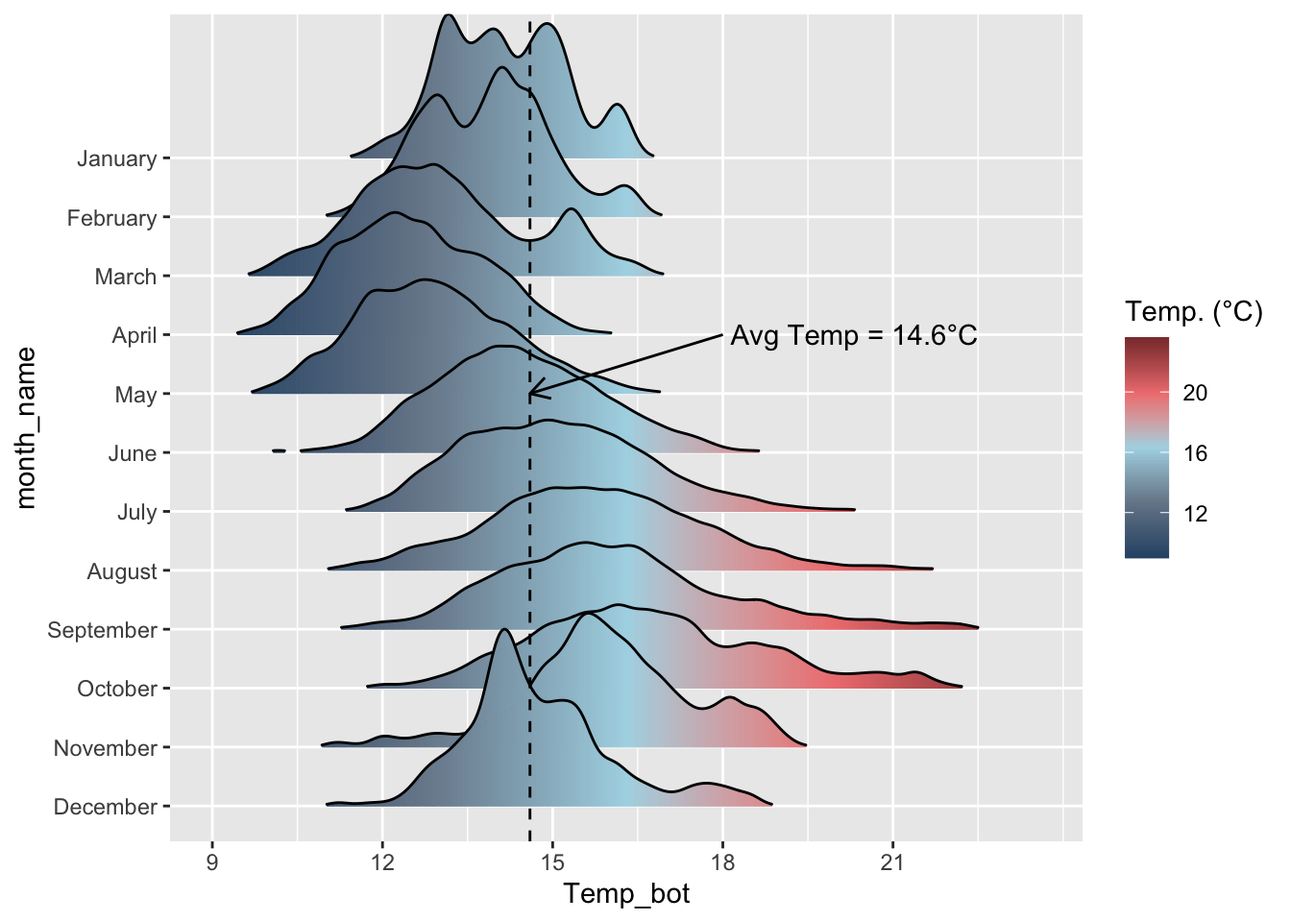
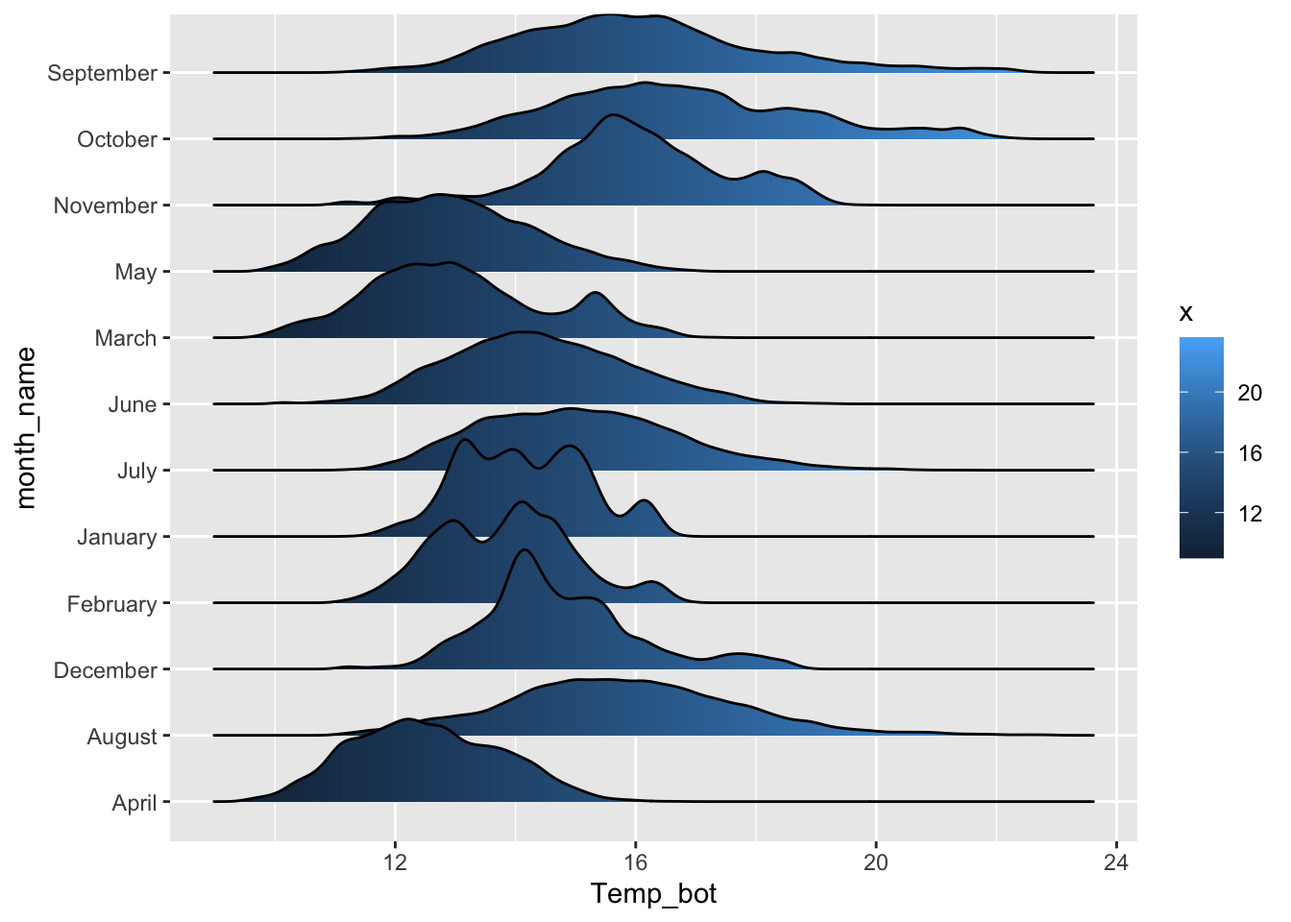
updated bullet point list for improving clarity; added sneak peak tabs at the start of doc

diff --git a/index.html b/index.html
@@ -163,14 +163,32 @@ code span.wa { color: #60a0b0; font-weight: bold; font-style: italic; } /* Warni
 <p><code>{ggplot2}</code> has, in many ways, become the de facto tool for data visualization in R. And with the <em>many</em> extension packages available, there’s hardly a limit to what you can create. Building effective and visually-pleasing data visualizations is a skill that gets easier with practice, and following a somewhat structured workflow – at least at the start – can help you get there faster. This workshop covers one approach for doing so, though you’ll find what works best for you with time.</p>
 </div>
 </div>
-<p>Below, you’ll find three different examples, beginning with an assessment of the raw data and ending with a completed visualization.</p>
+<p>Below, you’ll find three different examples, beginning with an assessment of the raw data and ending with a completed visualization. Here’s a sneak peak of what we’ll be creating:</p>
+<div class="panel-tabset">
+<ul class="nav nav-tabs" role="tablist"><li class="nav-item" role="presentation"><a class="nav-link active" id="tabset-1-1-tab" data-bs-toggle="tab" data-bs-target="#tabset-1-1" role="tab" aria-controls="tabset-1-1" aria-selected="true" href=""><strong><svg aria-label="Temperature quarter" role="img" viewbox="0 0 320 512" style="height:1em;width:0.62em;vertical-align:-0.125em;margin-left:auto;margin-right:auto;font-size:inherit;fill:#5A5A5A;overflow:visible;position:relative;"><title>Temperature quarter</title><path d="M160 64c-26.5 0-48 21.5-48 48V276.5c0 17.3-7.1 31.9-15.3 42.5C86.2 332.6 80 349.5 80 368c0 44.2 35.8 80 80 80s80-35.8 80-80c0-18.5-6.2-35.4-16.7-48.9c-8.2-10.6-15.3-25.2-15.3-42.5V112c0-26.5-21.5-48-48-48zM48 112C48 50.2 98.1 0 160 0s112 50.1 112 112V276.5c0 .1 .1 .3 .2 .6c.2 .6 .8 1.6 1.7 2.8c18.9 24.4 30.1 55 30.1 88.1c0 79.5-64.5 144-144 144S16 447.5 16 368c0-33.2 11.2-63.8 30.1-88.1c.9-1.2 1.5-2.2 1.7-2.8c.1-.3 .2-.5 .2-.6V112zM208 368c0 26.5-21.5 48-48 48s-48-21.5-48-48c0-20.9 13.4-38.7 32-45.3V272c0-8.8 7.2-16 16-16s16 7.2 16 16v50.7c18.6 6.6 32 24.4 32 45.3z"></path></svg> Example 1:</strong> Ocean Temperatures</a></li><li class="nav-item" role="presentation"><a class="nav-link" id="tabset-1-2-tab" data-bs-toggle="tab" data-bs-target="#tabset-1-2" role="tab" aria-controls="tabset-1-2" aria-selected="false" href=""><strong>Example 2:</strong></a></li><li class="nav-item" role="presentation"><a class="nav-link" id="tabset-1-3-tab" data-bs-toggle="tab" data-bs-target="#tabset-1-3" role="tab" aria-controls="tabset-1-3" aria-selected="false" href=""><strong>Example 3:</strong></a></li></ul>
+<div class="tab-content">
+<div id="tabset-1-1" class="tab-pane active" role="tabpanel" aria-labelledby="tabset-1-1-tab">
+<div class="cell">
+<div class="cell-output-display">
+<p><img src="index_files/figure-html/unnamed-chunk-1-1.png" class="img-fluid" width="672"></p>
+</div>
+</div>
+</div>
+<div id="tabset-1-2" class="tab-pane" role="tabpanel" aria-labelledby="tabset-1-2-tab">
+
+</div>
+<div id="tabset-1-3" class="tab-pane" role="tabpanel" aria-labelledby="tabset-1-3-tab">
+
+</div>
+</div>
+</div>
 <section id="step-1.-what-data-types" class="level2">
 <h2 class="anchored" data-anchor-id="step-1.-what-data-types"><svg aria-label="table" role="img" viewbox="0 0 512 512" style="height:1em;width:1em;vertical-align:-0.125em;margin-left:auto;margin-right:auto;font-size:inherit;fill:#5A5A5A;overflow:visible;position:relative;"><title>table</title><path d="M64 256V160H224v96H64zm0 64H224v96H64V320zm224 96V320H448v96H288zM448 256H288V160H448v96zM64 32C28.7 32 0 60.7 0 96V416c0 35.3 28.7 64 64 64H448c35.3 0 64-28.7 64-64V96c0-35.3-28.7-64-64-64H64z"></path></svg> Step 1. What data type(s)?</h2>
 <p>In order to determine the most appropriate and effective chart type, you first need to determine what type(s) of data you’re working with.</p>
 <div class="panel-tabset">
-<ul class="nav nav-tabs" role="tablist"><li class="nav-item" role="presentation"><a class="nav-link active" id="tabset-1-1-tab" data-bs-toggle="tab" data-bs-target="#tabset-1-1" role="tab" aria-controls="tabset-1-1" aria-selected="true" href=""><strong><svg aria-label="Temperature quarter" role="img" viewbox="0 0 320 512" style="height:1em;width:0.62em;vertical-align:-0.125em;margin-left:auto;margin-right:auto;font-size:inherit;fill:#5A5A5A;overflow:visible;position:relative;"><title>Temperature quarter</title><path d="M160 64c-26.5 0-48 21.5-48 48V276.5c0 17.3-7.1 31.9-15.3 42.5C86.2 332.6 80 349.5 80 368c0 44.2 35.8 80 80 80s80-35.8 80-80c0-18.5-6.2-35.4-16.7-48.9c-8.2-10.6-15.3-25.2-15.3-42.5V112c0-26.5-21.5-48-48-48zM48 112C48 50.2 98.1 0 160 0s112 50.1 112 112V276.5c0 .1 .1 .3 .2 .6c.2 .6 .8 1.6 1.7 2.8c18.9 24.4 30.1 55 30.1 88.1c0 79.5-64.5 144-144 144S16 447.5 16 368c0-33.2 11.2-63.8 30.1-88.1c.9-1.2 1.5-2.2 1.7-2.8c.1-.3 .2-.5 .2-.6V112zM208 368c0 26.5-21.5 48-48 48s-48-21.5-48-48c0-20.9 13.4-38.7 32-45.3V272c0-8.8 7.2-16 16-16s16 7.2 16 16v50.7c18.6 6.6 32 24.4 32 45.3z"></path></svg> Example 1:</strong> Ocean Temperatures</a></li><li class="nav-item" role="presentation"><a class="nav-link" id="tabset-1-2-tab" data-bs-toggle="tab" data-bs-target="#tabset-1-2" role="tab" aria-controls="tabset-1-2" aria-selected="false" href=""><strong>Example 2:</strong> tbd</a></li><li class="nav-item" role="presentation"><a class="nav-link" id="tabset-1-3-tab" data-bs-toggle="tab" data-bs-target="#tabset-1-3" role="tab" aria-controls="tabset-1-3" aria-selected="false" href=""><strong>Example 3:</strong> tbd</a></li></ul>
+<ul class="nav nav-tabs" role="tablist"><li class="nav-item" role="presentation"><a class="nav-link active" id="tabset-2-1-tab" data-bs-toggle="tab" data-bs-target="#tabset-2-1" role="tab" aria-controls="tabset-2-1" aria-selected="true" href=""><strong><svg aria-label="Temperature quarter" role="img" viewbox="0 0 320 512" style="height:1em;width:0.62em;vertical-align:-0.125em;margin-left:auto;margin-right:auto;font-size:inherit;fill:#5A5A5A;overflow:visible;position:relative;"><title>Temperature quarter</title><path d="M160 64c-26.5 0-48 21.5-48 48V276.5c0 17.3-7.1 31.9-15.3 42.5C86.2 332.6 80 349.5 80 368c0 44.2 35.8 80 80 80s80-35.8 80-80c0-18.5-6.2-35.4-16.7-48.9c-8.2-10.6-15.3-25.2-15.3-42.5V112c0-26.5-21.5-48-48-48zM48 112C48 50.2 98.1 0 160 0s112 50.1 112 112V276.5c0 .1 .1 .3 .2 .6c.2 .6 .8 1.6 1.7 2.8c18.9 24.4 30.1 55 30.1 88.1c0 79.5-64.5 144-144 144S16 447.5 16 368c0-33.2 11.2-63.8 30.1-88.1c.9-1.2 1.5-2.2 1.7-2.8c.1-.3 .2-.5 .2-.6V112zM208 368c0 26.5-21.5 48-48 48s-48-21.5-48-48c0-20.9 13.4-38.7 32-45.3V272c0-8.8 7.2-16 16-16s16 7.2 16 16v50.7c18.6 6.6 32 24.4 32 45.3z"></path></svg> Example 1:</strong> Ocean Temperatures</a></li><li class="nav-item" role="presentation"><a class="nav-link" id="tabset-2-2-tab" data-bs-toggle="tab" data-bs-target="#tabset-2-2" role="tab" aria-controls="tabset-2-2" aria-selected="false" href=""><strong>Example 2:</strong> tbd</a></li><li class="nav-item" role="presentation"><a class="nav-link" id="tabset-2-3-tab" data-bs-toggle="tab" data-bs-target="#tabset-2-3" role="tab" aria-controls="tabset-2-3" aria-selected="false" href=""><strong>Example 3:</strong> tbd</a></li></ul>
 <div class="tab-content">
-<div id="tabset-1-1" class="tab-pane active" role="tabpanel" aria-labelledby="tabset-1-1-tab">
+<div id="tabset-2-1" class="tab-pane active" role="tabpanel" aria-labelledby="tabset-2-1-tab">
 <p>Let’s say we’re interested in visualizing <strong>temporal variation in bottom temperature</strong> at Mohawk Reef (Santa Barbara, CA), a near-shore rocky reef and one of the <a href="https://sbclter.msi.ucsb.edu/">Santa Barbara Coastal (SBC) LTER</a> research sites. To do so, we’ll use SBC LTER data, <a href="https://pasta.lternet.edu/package/eml/knb-lter-sbc/2007/16">SBC LTER: Ocean: Currents and Biogeochemistry: Moored CTD and ADCP data from Mohawk Outside Spar (MKO), ongoing since 2005</a>, available for download on the <a href="https://portal.edirepository.org/nis/home.jsp">EDI Data Portal</a>.</p>
 <div class="callout-important callout callout-style-default callout-captioned">
 <div class="callout-header d-flex align-content-center">
@@ -185,7 +203,7 @@ Warning: Large data file!
 <p><strong>Do not attempt to push raw data to GitHub</strong> – adding your <code>raw-data/</code> folder (or equivalent) to your <code>.gitignore</code> is highly recommmended. You may download the cleaned <code>mohawk_cleaned.rds</code> file <a href="https://github.com/UCSB-MEDS/data-viz-practice/blob/main/clean-data/mohawk_temps.rds">here</a>.</p>
 </div>
 </div>
-<p>The raw data file contains 87 variables and &gt;473,000 observations across 18 years (2005 - 2022) (data have been interpolated to a 20 min interval) – cleaning involves selecting only columns of interest, coercing variables to the appropriate data type, adding month abbreviations, and assessing missing data (find the <a href="https://github.com/UCSB-MEDS/data-viz-practice/blob/main/data-wrangling/ocean-temps.R">cleaning script here</a>).</p>
+<p>The raw data file contains 87 variables and &gt;473,000 observations across 18 years (2005 - 2022) (data have been interpolated to a 20 min interval) – cleaning involves selecting only variables of interest, coercing variables to the appropriate data type, adding month abbreviations, and assessing missing data (find the <a href="https://github.com/UCSB-MEDS/data-viz-practice/blob/main/data-wrangling/ocean-temps.R">cleaning script here</a>).</p>
 <p>Below are 10 randomly sampled rows from our cleaned data:</p>
 <div class="cell">
 <div class="sourceCode cell-code" id="cb1"><pre class="sourceCode r code-with-copy"><code class="sourceCode r"><span id="cb1-1"><a href="#cb1-1" aria-hidden="true" tabindex="-1"></a><span class="co">#..........................load packages.........................</span></span>
@@ -215,10 +233,10 @@ Warning: Large data file!
 </div>
 <p>We are working with both <strong>numeric data</strong> (bottom temperature, <code>Temp_bot</code>) and <strong>categorical data</strong> (months, <code>month</code>). Further we have several (well, <em>many</em>) observations per group (month).</p>
 </div>
-<div id="tabset-1-2" class="tab-pane" role="tabpanel" aria-labelledby="tabset-1-2-tab">
+<div id="tabset-2-2" class="tab-pane" role="tabpanel" aria-labelledby="tabset-2-2-tab">
 
 </div>
-<div id="tabset-1-3" class="tab-pane" role="tabpanel" aria-labelledby="tabset-1-3-tab">
+<div id="tabset-2-3" class="tab-pane" role="tabpanel" aria-labelledby="tabset-2-3-tab">
 
 </div>
 </div>
@@ -261,9 +279,9 @@ Click on a particular chart type in the <a href="https://www.data-to-viz.com/">F
 </div>
 </div>
 <div class="panel-tabset">
-<ul class="nav nav-tabs" role="tablist"><li class="nav-item" role="presentation"><a class="nav-link active" id="tabset-2-1-tab" data-bs-toggle="tab" data-bs-target="#tabset-2-1" role="tab" aria-controls="tabset-2-1" aria-selected="true" href=""><strong><svg aria-label="Temperature quarter" role="img" viewbox="0 0 320 512" style="height:1em;width:0.62em;vertical-align:-0.125em;margin-left:auto;margin-right:auto;font-size:inherit;fill:#5A5A5A;overflow:visible;position:relative;"><title>Temperature quarter</title><path d="M160 64c-26.5 0-48 21.5-48 48V276.5c0 17.3-7.1 31.9-15.3 42.5C86.2 332.6 80 349.5 80 368c0 44.2 35.8 80 80 80s80-35.8 80-80c0-18.5-6.2-35.4-16.7-48.9c-8.2-10.6-15.3-25.2-15.3-42.5V112c0-26.5-21.5-48-48-48zM48 112C48 50.2 98.1 0 160 0s112 50.1 112 112V276.5c0 .1 .1 .3 .2 .6c.2 .6 .8 1.6 1.7 2.8c18.9 24.4 30.1 55 30.1 88.1c0 79.5-64.5 144-144 144S16 447.5 16 368c0-33.2 11.2-63.8 30.1-88.1c.9-1.2 1.5-2.2 1.7-2.8c.1-.3 .2-.5 .2-.6V112zM208 368c0 26.5-21.5 48-48 48s-48-21.5-48-48c0-20.9 13.4-38.7 32-45.3V272c0-8.8 7.2-16 16-16s16 7.2 16 16v50.7c18.6 6.6 32 24.4 32 45.3z"></path></svg> Example 1:</strong> Ocean Temperatures</a></li><li class="nav-item" role="presentation"><a class="nav-link" id="tabset-2-2-tab" data-bs-toggle="tab" data-bs-target="#tabset-2-2" role="tab" aria-controls="tabset-2-2" aria-selected="false" href=""><strong>Example 2:</strong></a></li><li class="nav-item" role="presentation"><a class="nav-link" id="tabset-2-3-tab" data-bs-toggle="tab" data-bs-target="#tabset-2-3" role="tab" aria-controls="tabset-2-3" aria-selected="false" href=""><strong>Example 3:</strong></a></li></ul>
+<ul class="nav nav-tabs" role="tablist"><li class="nav-item" role="presentation"><a class="nav-link active" id="tabset-3-1-tab" data-bs-toggle="tab" data-bs-target="#tabset-3-1" role="tab" aria-controls="tabset-3-1" aria-selected="true" href=""><strong><svg aria-label="Temperature quarter" role="img" viewbox="0 0 320 512" style="height:1em;width:0.62em;vertical-align:-0.125em;margin-left:auto;margin-right:auto;font-size:inherit;fill:#5A5A5A;overflow:visible;position:relative;"><title>Temperature quarter</title><path d="M160 64c-26.5 0-48 21.5-48 48V276.5c0 17.3-7.1 31.9-15.3 42.5C86.2 332.6 80 349.5 80 368c0 44.2 35.8 80 80 80s80-35.8 80-80c0-18.5-6.2-35.4-16.7-48.9c-8.2-10.6-15.3-25.2-15.3-42.5V112c0-26.5-21.5-48-48-48zM48 112C48 50.2 98.1 0 160 0s112 50.1 112 112V276.5c0 .1 .1 .3 .2 .6c.2 .6 .8 1.6 1.7 2.8c18.9 24.4 30.1 55 30.1 88.1c0 79.5-64.5 144-144 144S16 447.5 16 368c0-33.2 11.2-63.8 30.1-88.1c.9-1.2 1.5-2.2 1.7-2.8c.1-.3 .2-.5 .2-.6V112zM208 368c0 26.5-21.5 48-48 48s-48-21.5-48-48c0-20.9 13.4-38.7 32-45.3V272c0-8.8 7.2-16 16-16s16 7.2 16 16v50.7c18.6 6.6 32 24.4 32 45.3z"></path></svg> Example 1:</strong> Ocean Temperatures</a></li><li class="nav-item" role="presentation"><a class="nav-link" id="tabset-3-2-tab" data-bs-toggle="tab" data-bs-target="#tabset-3-2" role="tab" aria-controls="tabset-3-2" aria-selected="false" href=""><strong>Example 2:</strong></a></li><li class="nav-item" role="presentation"><a class="nav-link" id="tabset-3-3-tab" data-bs-toggle="tab" data-bs-target="#tabset-3-3" role="tab" aria-controls="tabset-3-3" aria-selected="false" href=""><strong>Example 3:</strong></a></li></ul>
 <div class="tab-content">
-<div id="tabset-2-1" class="tab-pane active" role="tabpanel" aria-labelledby="tabset-2-1-tab">
+<div id="tabset-3-1" class="tab-pane active" role="tabpanel" aria-labelledby="tabset-3-1-tab">
 <p>We’re presented with a few great options (boxplot, violin plot, ridgeline plot, density plot, histogram) given our data. I’m partial to the <strong>ridgeline plot</strong> – I find it an intuitive way to view changes in temperature distributions through time, so that’s what I’ll choose for this example:</p>
 <div class="quarto-figure quarto-figure-center">
 <figure class="figure">
@@ -271,10 +289,10 @@ Click on a particular chart type in the <a href="https://www.data-to-viz.com/">F
 </figure>
 </div>
 </div>
-<div id="tabset-2-2" class="tab-pane" role="tabpanel" aria-labelledby="tabset-2-2-tab">
+<div id="tabset-3-2" class="tab-pane" role="tabpanel" aria-labelledby="tabset-3-2-tab">
 
 </div>
-<div id="tabset-2-3" class="tab-pane" role="tabpanel" aria-labelledby="tabset-2-3-tab">
+<div id="tabset-3-3" class="tab-pane" role="tabpanel" aria-labelledby="tabset-3-3-tab">
 
 </div>
 </div>
@@ -283,9 +301,9 @@ Click on a particular chart type in the <a href="https://www.data-to-viz.com/">F
 <section id="step-3.-create-a-basic-plot" class="level2">
 <h2 class="anchored" data-anchor-id="step-3.-create-a-basic-plot"><svg aria-label="Chart Simple" role="img" viewbox="0 0 448 512" style="height:1em;width:0.88em;vertical-align:-0.125em;margin-left:auto;margin-right:auto;font-size:inherit;fill:#5A5A5A;overflow:visible;position:relative;"><title>Chart Simple</title><path d="M160 80c0-26.5 21.5-48 48-48h32c26.5 0 48 21.5 48 48V432c0 26.5-21.5 48-48 48H208c-26.5 0-48-21.5-48-48V80zM0 272c0-26.5 21.5-48 48-48H80c26.5 0 48 21.5 48 48V432c0 26.5-21.5 48-48 48H48c-26.5 0-48-21.5-48-48V272zM368 96h32c26.5 0 48 21.5 48 48V432c0 26.5-21.5 48-48 48H368c-26.5 0-48-21.5-48-48V144c0-26.5 21.5-48 48-48z"></path></svg> Step 3. Create a basic plot</h2>
 <div class="panel-tabset">
-<ul class="nav nav-tabs" role="tablist"><li class="nav-item" role="presentation"><a class="nav-link active" id="tabset-3-1-tab" data-bs-toggle="tab" data-bs-target="#tabset-3-1" role="tab" aria-controls="tabset-3-1" aria-selected="true" href=""><strong><svg aria-label="Temperature quarter" role="img" viewbox="0 0 320 512" style="height:1em;width:0.62em;vertical-align:-0.125em;margin-left:auto;margin-right:auto;font-size:inherit;fill:#5A5A5A;overflow:visible;position:relative;"><title>Temperature quarter</title><path d="M160 64c-26.5 0-48 21.5-48 48V276.5c0 17.3-7.1 31.9-15.3 42.5C86.2 332.6 80 349.5 80 368c0 44.2 35.8 80 80 80s80-35.8 80-80c0-18.5-6.2-35.4-16.7-48.9c-8.2-10.6-15.3-25.2-15.3-42.5V112c0-26.5-21.5-48-48-48zM48 112C48 50.2 98.1 0 160 0s112 50.1 112 112V276.5c0 .1 .1 .3 .2 .6c.2 .6 .8 1.6 1.7 2.8c18.9 24.4 30.1 55 30.1 88.1c0 79.5-64.5 144-144 144S16 447.5 16 368c0-33.2 11.2-63.8 30.1-88.1c.9-1.2 1.5-2.2 1.7-2.8c.1-.3 .2-.5 .2-.6V112zM208 368c0 26.5-21.5 48-48 48s-48-21.5-48-48c0-20.9 13.4-38.7 32-45.3V272c0-8.8 7.2-16 16-16s16 7.2 16 16v50.7c18.6 6.6 32 24.4 32 45.3z"></path></svg> Example 1:</strong> Ocean Temperatures</a></li><li class="nav-item" role="presentation"><a class="nav-link" id="tabset-3-2-tab" data-bs-toggle="tab" data-bs-target="#tabset-3-2" role="tab" aria-controls="tabset-3-2" aria-selected="false" href=""><strong>Example 2:</strong></a></li><li class="nav-item" role="presentation"><a class="nav-link" id="tabset-3-3-tab" data-bs-toggle="tab" data-bs-target="#tabset-3-3" role="tab" aria-controls="tabset-3-3" aria-selected="false" href=""><strong>Example 3:</strong></a></li></ul>
+<ul class="nav nav-tabs" role="tablist"><li class="nav-item" role="presentation"><a class="nav-link active" id="tabset-4-1-tab" data-bs-toggle="tab" data-bs-target="#tabset-4-1" role="tab" aria-controls="tabset-4-1" aria-selected="true" href=""><strong><svg aria-label="Temperature quarter" role="img" viewbox="0 0 320 512" style="height:1em;width:0.62em;vertical-align:-0.125em;margin-left:auto;margin-right:auto;font-size:inherit;fill:#5A5A5A;overflow:visible;position:relative;"><title>Temperature quarter</title><path d="M160 64c-26.5 0-48 21.5-48 48V276.5c0 17.3-7.1 31.9-15.3 42.5C86.2 332.6 80 349.5 80 368c0 44.2 35.8 80 80 80s80-35.8 80-80c0-18.5-6.2-35.4-16.7-48.9c-8.2-10.6-15.3-25.2-15.3-42.5V112c0-26.5-21.5-48-48-48zM48 112C48 50.2 98.1 0 160 0s112 50.1 112 112V276.5c0 .1 .1 .3 .2 .6c.2 .6 .8 1.6 1.7 2.8c18.9 24.4 30.1 55 30.1 88.1c0 79.5-64.5 144-144 144S16 447.5 16 368c0-33.2 11.2-63.8 30.1-88.1c.9-1.2 1.5-2.2 1.7-2.8c.1-.3 .2-.5 .2-.6V112zM208 368c0 26.5-21.5 48-48 48s-48-21.5-48-48c0-20.9 13.4-38.7 32-45.3V272c0-8.8 7.2-16 16-16s16 7.2 16 16v50.7c18.6 6.6 32 24.4 32 45.3z"></path></svg> Example 1:</strong> Ocean Temperatures</a></li><li class="nav-item" role="presentation"><a class="nav-link" id="tabset-4-2-tab" data-bs-toggle="tab" data-bs-target="#tabset-4-2" role="tab" aria-controls="tabset-4-2" aria-selected="false" href=""><strong>Example 2:</strong></a></li><li class="nav-item" role="presentation"><a class="nav-link" id="tabset-4-3-tab" data-bs-toggle="tab" data-bs-target="#tabset-4-3" role="tab" aria-controls="tabset-4-3" aria-selected="false" href=""><strong>Example 3:</strong></a></li></ul>
 <div class="tab-content">
-<div id="tabset-3-1" class="tab-pane active" role="tabpanel" aria-labelledby="tabset-3-1-tab">
+<div id="tabset-4-1" class="tab-pane active" role="tabpanel" aria-labelledby="tabset-4-1-tab">
 <p>Let’s start by creating a super basic <strong>ridgeline plot of aggregate bottom temperatures by month</strong> using the <a href="https://github.com/wilkelab/ggridges/"><code>{ggridges}</code> package</a>:</p>
 <div class="cell">
 <div class="sourceCode cell-code" id="cb3"><pre class="sourceCode r code-with-copy"><code class="sourceCode r"><span id="cb3-1"><a href="#cb3-1" aria-hidden="true" tabindex="-1"></a><span class="co">#..........................load packages.........................</span></span>
@@ -305,14 +323,14 @@ Click on a particular chart type in the <a href="https://www.data-to-viz.com/">F
 <span id="cb3-15"><a href="#cb3-15" aria-hidden="true" tabindex="-1"></a></span>
 <span id="cb3-16"><a href="#cb3-16" aria-hidden="true" tabindex="-1"></a>mko_ridges_plot</span></code><button title="Copy to Clipboard" class="code-copy-button"><i class="bi"></i></button></pre></div>
 <div class="cell-output-display">
-<p><img src="index_files/figure-html/unnamed-chunk-2-1.png" class="img-fluid" width="672"></p>
+<p><img src="index_files/figure-html/unnamed-chunk-3-1.png" class="img-fluid" width="672"></p>
 </div>
 </div>
 </div>
-<div id="tabset-3-2" class="tab-pane" role="tabpanel" aria-labelledby="tabset-3-2-tab">
+<div id="tabset-4-2" class="tab-pane" role="tabpanel" aria-labelledby="tabset-4-2-tab">
 
 </div>
-<div id="tabset-3-3" class="tab-pane" role="tabpanel" aria-labelledby="tabset-3-3-tab">
+<div id="tabset-4-3" class="tab-pane" role="tabpanel" aria-labelledby="tabset-4-3-tab">
 
 </div>
 </div>
@@ -321,15 +339,19 @@ Click on a particular chart type in the <a href="https://www.data-to-viz.com/">F
 <section id="step-4.-improve-clarity-take-home-messages" class="level2">
 <h2 class="anchored" data-anchor-id="step-4.-improve-clarity-take-home-messages"><svg aria-label="Lightbulb" role="img" viewbox="0 0 384 512" style="height:1em;width:0.75em;vertical-align:-0.125em;margin-left:auto;margin-right:auto;font-size:inherit;fill:#5A5A5A;overflow:visible;position:relative;"><title>Lightbulb</title><path d="M112.1 454.3c0 6.297 1.816 12.44 5.284 17.69l17.14 25.69c5.25 7.875 17.17 14.28 26.64 14.28h61.67c9.438 0 21.36-6.401 26.61-14.28l17.08-25.68c2.938-4.438 5.348-12.37 5.348-17.7L272 415.1h-160L112.1 454.3zM192 0C90.02 .3203 16 82.97 16 175.1c0 44.38 16.44 84.84 43.56 115.8c16.53 18.84 42.34 58.23 52.22 91.45c.0313 .25 .0938 .5166 .125 .7823h160.2c.0313-.2656 .0938-.5166 .125-.7823c9.875-33.22 35.69-72.61 52.22-91.45C351.6 260.8 368 220.4 368 175.1C368 78.8 289.2 .0039 192 0zM288.4 260.1c-15.66 17.85-35.04 46.3-49.05 75.89h-94.61c-14.01-29.59-33.39-58.04-49.04-75.88C75.24 236.8 64 206.1 64 175.1C64 113.3 112.1 48.25 191.1 48C262.6 48 320 105.4 320 175.1C320 206.1 308.8 236.8 288.4 260.1zM176 80C131.9 80 96 115.9 96 160c0 8.844 7.156 16 16 16S128 168.8 128 160c0-26.47 21.53-48 48-48c8.844 0 16-7.148 16-15.99S184.8 80 176 80z"></path></svg> Step 4. Improve clarity &amp; take-home message(s)</h2>
 <div class="panel-tabset">
-<ul class="nav nav-tabs" role="tablist"><li class="nav-item" role="presentation"><a class="nav-link active" id="tabset-4-1-tab" data-bs-toggle="tab" data-bs-target="#tabset-4-1" role="tab" aria-controls="tabset-4-1" aria-selected="true" href=""><strong><svg aria-label="Temperature quarter" role="img" viewbox="0 0 320 512" style="height:1em;width:0.62em;vertical-align:-0.125em;margin-left:auto;margin-right:auto;font-size:inherit;fill:#5A5A5A;overflow:visible;position:relative;"><title>Temperature quarter</title><path d="M160 64c-26.5 0-48 21.5-48 48V276.5c0 17.3-7.1 31.9-15.3 42.5C86.2 332.6 80 349.5 80 368c0 44.2 35.8 80 80 80s80-35.8 80-80c0-18.5-6.2-35.4-16.7-48.9c-8.2-10.6-15.3-25.2-15.3-42.5V112c0-26.5-21.5-48-48-48zM48 112C48 50.2 98.1 0 160 0s112 50.1 112 112V276.5c0 .1 .1 .3 .2 .6c.2 .6 .8 1.6 1.7 2.8c18.9 24.4 30.1 55 30.1 88.1c0 79.5-64.5 144-144 144S16 447.5 16 368c0-33.2 11.2-63.8 30.1-88.1c.9-1.2 1.5-2.2 1.7-2.8c.1-.3 .2-.5 .2-.6V112zM208 368c0 26.5-21.5 48-48 48s-48-21.5-48-48c0-20.9 13.4-38.7 32-45.3V272c0-8.8 7.2-16 16-16s16 7.2 16 16v50.7c18.6 6.6 32 24.4 32 45.3z"></path></svg> Example 1:</strong> Ocean Temperatures</a></li><li class="nav-item" role="presentation"><a class="nav-link" id="tabset-4-2-tab" data-bs-toggle="tab" data-bs-target="#tabset-4-2" role="tab" aria-controls="tabset-4-2" aria-selected="false" href=""><strong>Example 2:</strong></a></li><li class="nav-item" role="presentation"><a class="nav-link" id="tabset-4-3-tab" data-bs-toggle="tab" data-bs-target="#tabset-4-3" role="tab" aria-controls="tabset-4-3" aria-selected="false" href=""><strong>Example 3:</strong></a></li></ul>
+<ul class="nav nav-tabs" role="tablist"><li class="nav-item" role="presentation"><a class="nav-link active" id="tabset-5-1-tab" data-bs-toggle="tab" data-bs-target="#tabset-5-1" role="tab" aria-controls="tabset-5-1" aria-selected="true" href=""><strong><svg aria-label="Temperature quarter" role="img" viewbox="0 0 320 512" style="height:1em;width:0.62em;vertical-align:-0.125em;margin-left:auto;margin-right:auto;font-size:inherit;fill:#5A5A5A;overflow:visible;position:relative;"><title>Temperature quarter</title><path d="M160 64c-26.5 0-48 21.5-48 48V276.5c0 17.3-7.1 31.9-15.3 42.5C86.2 332.6 80 349.5 80 368c0 44.2 35.8 80 80 80s80-35.8 80-80c0-18.5-6.2-35.4-16.7-48.9c-8.2-10.6-15.3-25.2-15.3-42.5V112c0-26.5-21.5-48-48-48zM48 112C48 50.2 98.1 0 160 0s112 50.1 112 112V276.5c0 .1 .1 .3 .2 .6c.2 .6 .8 1.6 1.7 2.8c18.9 24.4 30.1 55 30.1 88.1c0 79.5-64.5 144-144 144S16 447.5 16 368c0-33.2 11.2-63.8 30.1-88.1c.9-1.2 1.5-2.2 1.7-2.8c.1-.3 .2-.5 .2-.6V112zM208 368c0 26.5-21.5 48-48 48s-48-21.5-48-48c0-20.9 13.4-38.7 32-45.3V272c0-8.8 7.2-16 16-16s16 7.2 16 16v50.7c18.6 6.6 32 24.4 32 45.3z"></path></svg> Example 1:</strong> Ocean Temperatures</a></li><li class="nav-item" role="presentation"><a class="nav-link" id="tabset-5-2-tab" data-bs-toggle="tab" data-bs-target="#tabset-5-2" role="tab" aria-controls="tabset-5-2" aria-selected="false" href=""><strong>Example 2:</strong></a></li><li class="nav-item" role="presentation"><a class="nav-link" id="tabset-5-3-tab" data-bs-toggle="tab" data-bs-target="#tabset-5-3" role="tab" aria-controls="tabset-5-3" aria-selected="false" href=""><strong>Example 3:</strong></a></li></ul>
 <div class="tab-content">
-<div id="tabset-4-1" class="tab-pane active" role="tabpanel" aria-labelledby="tabset-4-1-tab">
+<div id="tabset-5-1" class="tab-pane active" role="tabpanel" aria-labelledby="tabset-5-1-tab">
 <p>We’ve successfully plotted our temperature data, but we’ll want to update the following so that our visualization is easier to interpret:</p>
 <ul>
 <li>order months chronologically</li>
 <li>apply an intuitive color gradient scale</li>
 </ul>
-<p>We might also choose to highlight a particular benchmark temperature(s) (e.g.&nbsp;the average bottom temperature across our data set) – adding a vertical line and annotations is a great option for this.</p>
+<p>We might also choose to:</p>
+<ul>
+<li>highlight a particular benchmark temperature(s) (e.g.&nbsp;the average bottom temperature across our data set) – adding a vertical line and annotations is a great option for this</li>
+<li>explore <code>geom_density_ridges_gradient()</code> argument options to modify the appearance of our ridges</li>
+</ul>
 <div class="cell">
 <div class="sourceCode cell-code" id="cb4"><pre class="sourceCode r code-with-copy"><code class="sourceCode r"><span id="cb4-1"><a href="#cb4-1" aria-hidden="true" tabindex="-1"></a><span class="co">#..........................load packages.........................</span></span>
 <span id="cb4-2"><a href="#cb4-2" aria-hidden="true" tabindex="-1"></a><span class="fu">library</span>(tidyverse)</span>
@@ -368,14 +390,14 @@ Click on a particular chart type in the <a href="https://www.data-to-viz.com/">F
 <span id="cb4-35"><a href="#cb4-35" aria-hidden="true" tabindex="-1"></a></span>
 <span id="cb4-36"><a href="#cb4-36" aria-hidden="true" tabindex="-1"></a>mko_ridges_plot</span></code><button title="Copy to Clipboard" class="code-copy-button"><i class="bi"></i></button></pre></div>
 <div class="cell-output-display">
-<p><img src="index_files/figure-html/unnamed-chunk-3-1.png" class="img-fluid" width="672"></p>
+<p><img src="index_files/figure-html/unnamed-chunk-4-1.png" class="img-fluid" width="672"></p>
 </div>
 </div>
 </div>
-<div id="tabset-4-2" class="tab-pane" role="tabpanel" aria-labelledby="tabset-4-2-tab">
+<div id="tabset-5-2" class="tab-pane" role="tabpanel" aria-labelledby="tabset-5-2-tab">
 
 </div>
-<div id="tabset-4-3" class="tab-pane" role="tabpanel" aria-labelledby="tabset-4-3-tab">
+<div id="tabset-5-3" class="tab-pane" role="tabpanel" aria-labelledby="tabset-5-3-tab">
 
 </div>
 </div>
@@ -384,9 +406,9 @@ Click on a particular chart type in the <a href="https://www.data-to-viz.com/">F
 <section id="step-5.-final-touches-polishing" class="level2">
 <h2 class="anchored" data-anchor-id="step-5.-final-touches-polishing"><svg aria-label="Palette" role="img" viewbox="0 0 512 512" style="height:1em;width:1em;vertical-align:-0.125em;margin-left:auto;margin-right:auto;font-size:inherit;fill:#5A5A5A;overflow:visible;position:relative;"><title>Palette</title><path d="M512 256c0 .9 0 1.8 0 2.7c-.4 36.5-33.6 61.3-70.1 61.3H344c-26.5 0-48 21.5-48 48c0 3.4 .4 6.7 1 9.9c2.1 10.2 6.5 20 10.8 29.9c6.1 13.8 12.1 27.5 12.1 42c0 31.8-21.6 60.7-53.4 62c-3.5 .1-7 .2-10.6 .2C114.6 512 0 397.4 0 256S114.6 0 256 0S512 114.6 512 256zM128 288c0-17.7-14.3-32-32-32s-32 14.3-32 32s14.3 32 32 32s32-14.3 32-32zm0-96c17.7 0 32-14.3 32-32s-14.3-32-32-32s-32 14.3-32 32s14.3 32 32 32zM288 96c0-17.7-14.3-32-32-32s-32 14.3-32 32s14.3 32 32 32s32-14.3 32-32zm96 96c17.7 0 32-14.3 32-32s-14.3-32-32-32s-32 14.3-32 32s14.3 32 32 32z"></path></svg> Step 5. Final touches / polishing</h2>
 <div class="panel-tabset">
-<ul class="nav nav-tabs" role="tablist"><li class="nav-item" role="presentation"><a class="nav-link active" id="tabset-5-1-tab" data-bs-toggle="tab" data-bs-target="#tabset-5-1" role="tab" aria-controls="tabset-5-1" aria-selected="true" href=""><strong><svg aria-label="Temperature quarter" role="img" viewbox="0 0 320 512" style="height:1em;width:0.62em;vertical-align:-0.125em;margin-left:auto;margin-right:auto;font-size:inherit;fill:#5A5A5A;overflow:visible;position:relative;"><title>Temperature quarter</title><path d="M160 64c-26.5 0-48 21.5-48 48V276.5c0 17.3-7.1 31.9-15.3 42.5C86.2 332.6 80 349.5 80 368c0 44.2 35.8 80 80 80s80-35.8 80-80c0-18.5-6.2-35.4-16.7-48.9c-8.2-10.6-15.3-25.2-15.3-42.5V112c0-26.5-21.5-48-48-48zM48 112C48 50.2 98.1 0 160 0s112 50.1 112 112V276.5c0 .1 .1 .3 .2 .6c.2 .6 .8 1.6 1.7 2.8c18.9 24.4 30.1 55 30.1 88.1c0 79.5-64.5 144-144 144S16 447.5 16 368c0-33.2 11.2-63.8 30.1-88.1c.9-1.2 1.5-2.2 1.7-2.8c.1-.3 .2-.5 .2-.6V112zM208 368c0 26.5-21.5 48-48 48s-48-21.5-48-48c0-20.9 13.4-38.7 32-45.3V272c0-8.8 7.2-16 16-16s16 7.2 16 16v50.7c18.6 6.6 32 24.4 32 45.3z"></path></svg> Example 1:</strong> Ocean Temperatures</a></li><li class="nav-item" role="presentation"><a class="nav-link" id="tabset-5-2-tab" data-bs-toggle="tab" data-bs-target="#tabset-5-2" role="tab" aria-controls="tabset-5-2" aria-selected="false" href=""><strong>Example 2:</strong></a></li><li class="nav-item" role="presentation"><a class="nav-link" id="tabset-5-3-tab" data-bs-toggle="tab" data-bs-target="#tabset-5-3" role="tab" aria-controls="tabset-5-3" aria-selected="false" href=""><strong>Example 3:</strong></a></li></ul>
+<ul class="nav nav-tabs" role="tablist"><li class="nav-item" role="presentation"><a class="nav-link active" id="tabset-6-1-tab" data-bs-toggle="tab" data-bs-target="#tabset-6-1" role="tab" aria-controls="tabset-6-1" aria-selected="true" href=""><strong><svg aria-label="Temperature quarter" role="img" viewbox="0 0 320 512" style="height:1em;width:0.62em;vertical-align:-0.125em;margin-left:auto;margin-right:auto;font-size:inherit;fill:#5A5A5A;overflow:visible;position:relative;"><title>Temperature quarter</title><path d="M160 64c-26.5 0-48 21.5-48 48V276.5c0 17.3-7.1 31.9-15.3 42.5C86.2 332.6 80 349.5 80 368c0 44.2 35.8 80 80 80s80-35.8 80-80c0-18.5-6.2-35.4-16.7-48.9c-8.2-10.6-15.3-25.2-15.3-42.5V112c0-26.5-21.5-48-48-48zM48 112C48 50.2 98.1 0 160 0s112 50.1 112 112V276.5c0 .1 .1 .3 .2 .6c.2 .6 .8 1.6 1.7 2.8c18.9 24.4 30.1 55 30.1 88.1c0 79.5-64.5 144-144 144S16 447.5 16 368c0-33.2 11.2-63.8 30.1-88.1c.9-1.2 1.5-2.2 1.7-2.8c.1-.3 .2-.5 .2-.6V112zM208 368c0 26.5-21.5 48-48 48s-48-21.5-48-48c0-20.9 13.4-38.7 32-45.3V272c0-8.8 7.2-16 16-16s16 7.2 16 16v50.7c18.6 6.6 32 24.4 32 45.3z"></path></svg> Example 1:</strong> Ocean Temperatures</a></li><li class="nav-item" role="presentation"><a class="nav-link" id="tabset-6-2-tab" data-bs-toggle="tab" data-bs-target="#tabset-6-2" role="tab" aria-controls="tabset-6-2" aria-selected="false" href=""><strong>Example 2:</strong></a></li><li class="nav-item" role="presentation"><a class="nav-link" id="tabset-6-3-tab" data-bs-toggle="tab" data-bs-target="#tabset-6-3" role="tab" aria-controls="tabset-6-3" aria-selected="false" href=""><strong>Example 3:</strong></a></li></ul>
 <div class="tab-content">
-<div id="tabset-5-1" class="tab-pane active" role="tabpanel" aria-labelledby="tabset-5-1-tab">
+<div id="tabset-6-1" class="tab-pane active" role="tabpanel" aria-labelledby="tabset-6-1-tab">
 <p>Finally, we can update labels/titles, apply a pre-built theme and/or update <code>theme()</code> options to our liking to polish up our visualization. The <code>{ggridges}</code> package includes a pre-built theme that’s meant to work nicely with ridgeline plots, so we’ll use that here:</p>
 <div class="cell">
 <div class="sourceCode cell-code" id="cb5"><pre class="sourceCode r code-with-copy"><code class="sourceCode r"><span id="cb5-1"><a href="#cb5-1" aria-hidden="true" tabindex="-1"></a><span class="co">#..........................load packages.........................</span></span>
@@ -439,14 +461,14 @@ Click on a particular chart type in the <a href="https://www.data-to-viz.com/">F
 <span id="cb5-48"><a href="#cb5-48" aria-hidden="true" tabindex="-1"></a></span>
 <span id="cb5-49"><a href="#cb5-49" aria-hidden="true" tabindex="-1"></a>mko_ridges_plot</span></code><button title="Copy to Clipboard" class="code-copy-button"><i class="bi"></i></button></pre></div>
 <div class="cell-output-display">
-<p><img src="index_files/figure-html/unnamed-chunk-4-1.png" class="img-fluid" width="672"></p>
+<p><img src="index_files/figure-html/unnamed-chunk-5-1.png" class="img-fluid" width="672"></p>
 </div>
 </div>
 </div>
-<div id="tabset-5-2" class="tab-pane" role="tabpanel" aria-labelledby="tabset-5-2-tab">
+<div id="tabset-6-2" class="tab-pane" role="tabpanel" aria-labelledby="tabset-6-2-tab">
 
 </div>
-<div id="tabset-5-3" class="tab-pane" role="tabpanel" aria-labelledby="tabset-5-3-tab">
+<div id="tabset-6-3" class="tab-pane" role="tabpanel" aria-labelledby="tabset-6-3-tab">
 
 </div>
 </div>
